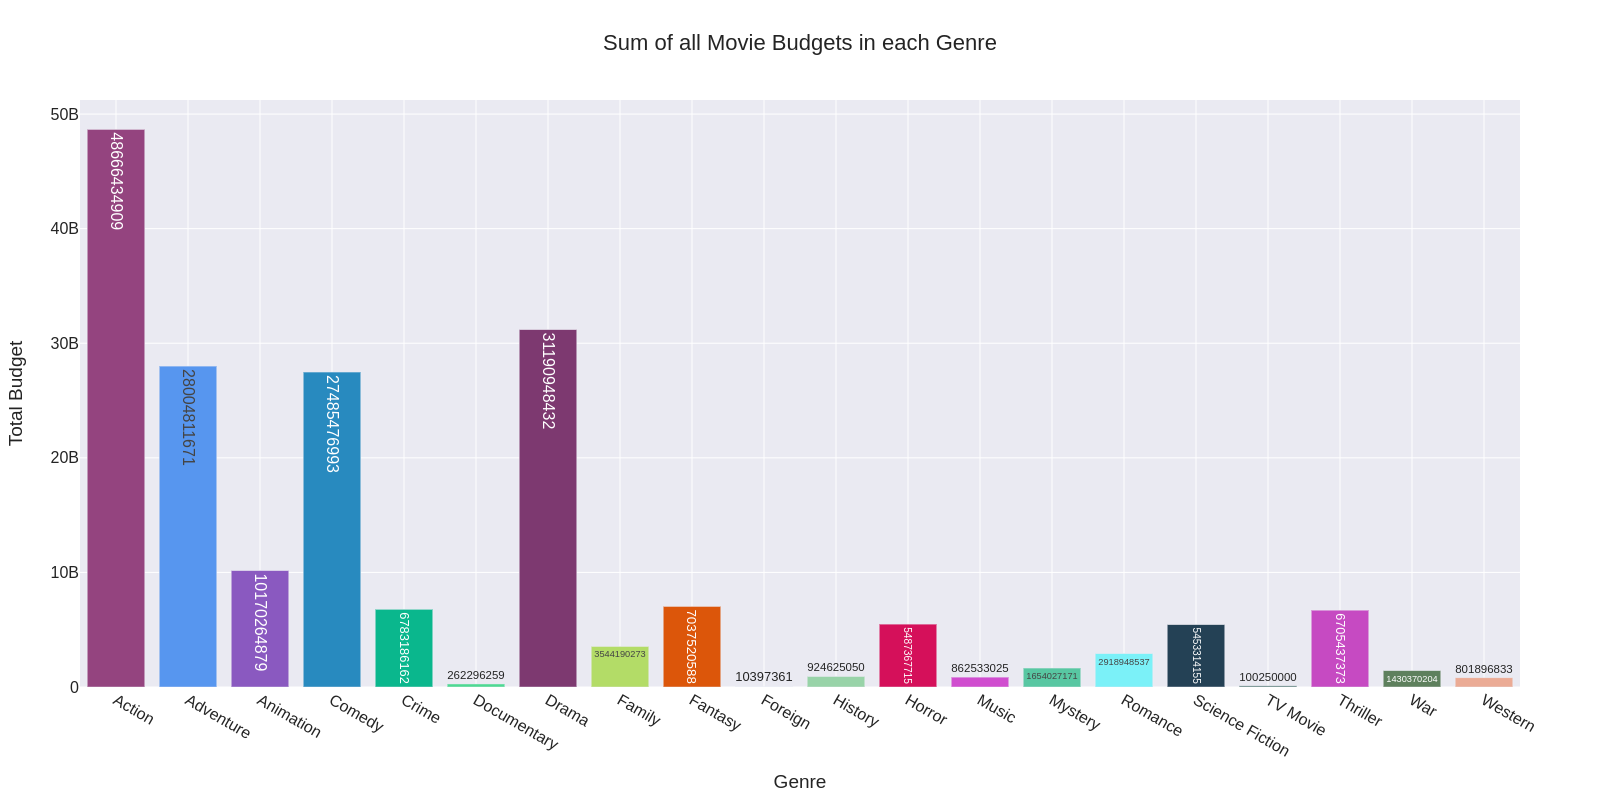
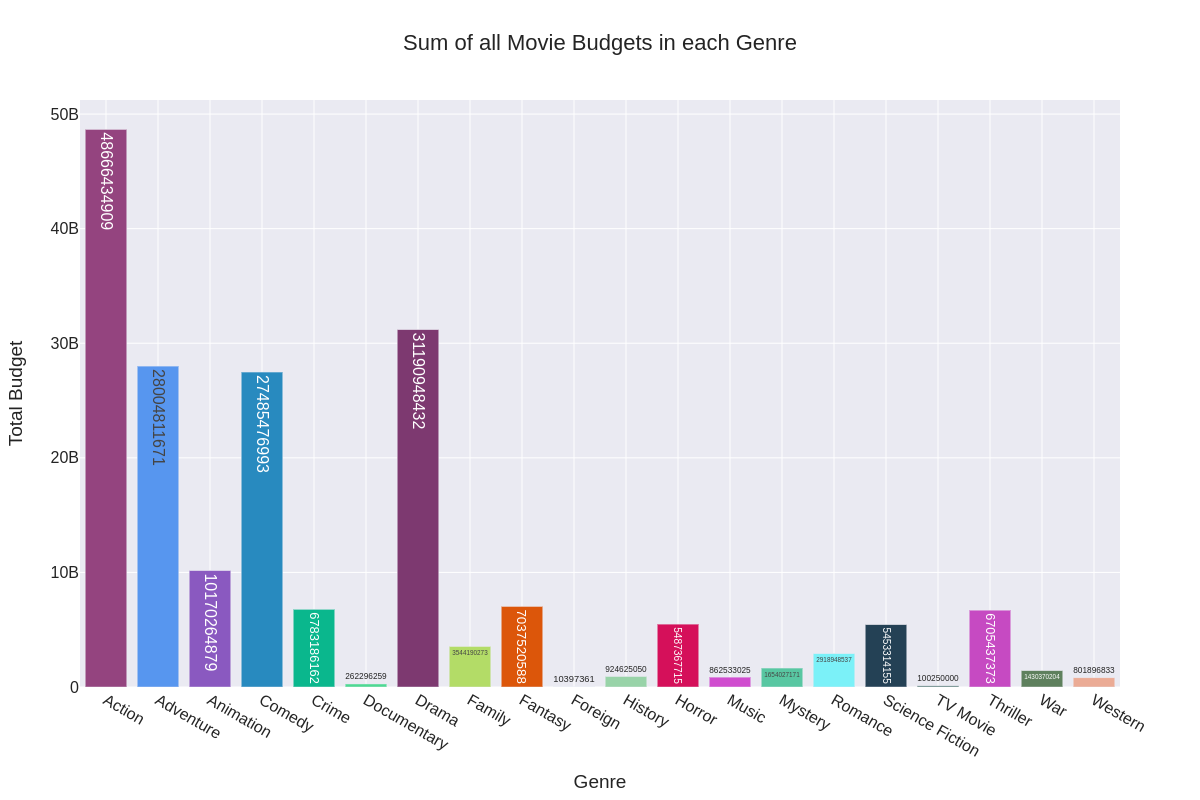
Resize charts

Changed region(s): [[0.0, 0.125, 0.9558, 0.9375], [0.3392, 0.0312, 0.6783, 0.0625], [0.4625, 0.9688, 0.5242, 1.0]]

diff --git a/EDA/MetaData.py b/EDA/MetaData.py
@@ -6,7 +6,7 @@ import numpy as np
 
 def metadata_eda(meta_df, ratings_df):
 
-    '''fig = px.scatter(meta_df, x='budget', y='revenue', hover_data=['title'], color='genres', width=1600, height=800)
+    fig = px.scatter(meta_df, x='budget', y='revenue', hover_data=['title'], color='genres', width=1200, height=800)
     fig.update_layout(
         title='The Relationship between Budget and Revenue',
         xaxis_title='Budget',
@@ -15,7 +15,7 @@ def metadata_eda(meta_df, ratings_df):
             size=16
         )
     )
-    fig.show()'''
+    fig.show()
 
 
     genre_budget_df = meta_df.groupby(['genres'])['budget'].sum()
@@ -54,7 +54,7 @@ def metadata_eda(meta_df, ratings_df):
         title='Sum of all Movie Budgets in each Genre',
         xaxis_title='Genre',
         yaxis_title='Total Budget',
-        width=1600,
+        width=1200,
         height=800,
         font=dict(
             size=16
